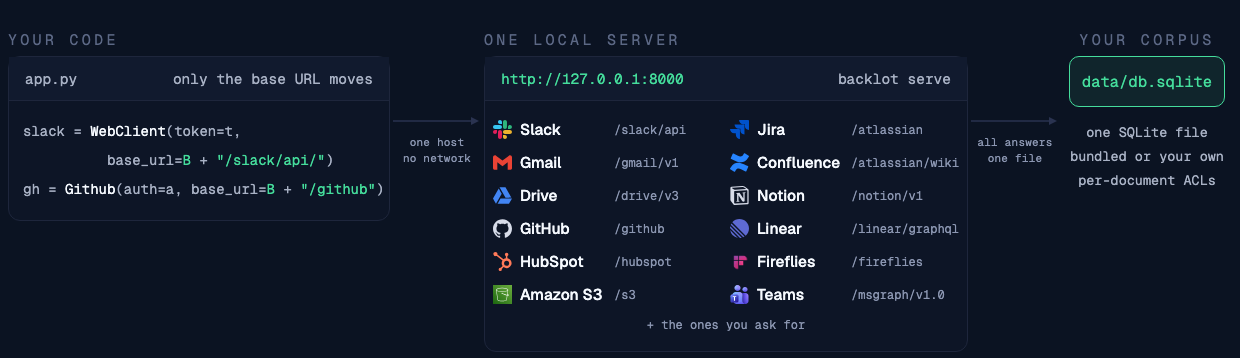
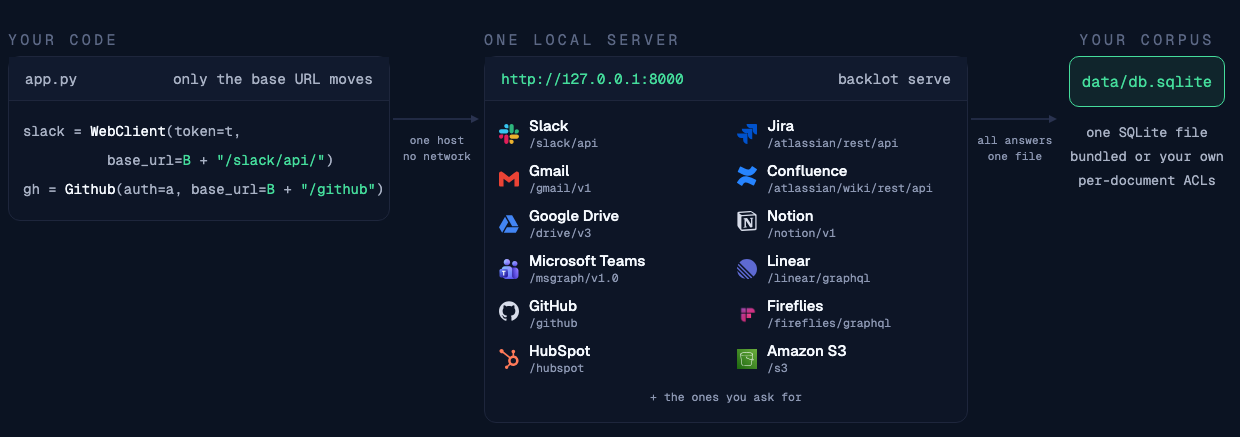
The architecture figure is rendered from a source in the repository, with the table's base paths
scripts/readme-demo-recorder/figures/architecture.html is the figure, one page
for both colour schemes through prefers-color-scheme, and `npm run figures`
screenshots it twice into assets/figures/ with the recorder's own Playwright.
The vendors' marks live beside it under figures/vendors/, with a dark-ground
variant for the three whose brand colour is drawn for one.

The server panel's rows carry the name over the path, so each path can be the
one the README table gives: /atlassian/rest/api, /atlassian/wiki/rest/api and
/fireflies/graphql in full. The longest ends 35px inside the panel's border and
the arrow captions keep their 13px and 9.5px from it. Microsoft Teams follows
Google Drive in the left column, and the panel grows to six rows of two lines.

diff --git a/scripts/readme-demo-recorder/figures/architecture.html b/scripts/readme-demo-recorder/figures/architecture.html
@@ -1,0 +1,91 @@
+<!doctype html>
+<meta charset="utf-8">
+<title>Backlot, in one figure</title>
+<!--
+  The architecture figure the README embeds from assets/figures/: your code on the left, one local
+  server in the middle, your corpus on the right. render.mjs screenshots this page twice, once per
+  colour scheme. The colours follow prefers-color-scheme, and the three marks drawn in a colour meant
+  for a dark ground (Confluence, GitHub, Notion) swap through <picture>, the way the README swaps the
+  figure itself. Geist and Geist Mono come from Google Fonts at render time.
+-->
+<link rel="stylesheet" href="https://fonts.googleapis.com/css2?family=Geist:wght@400;500&family=Geist+Mono&display=block">
+<style>
+:root{
+  --bg:#ffffff; --ink:#1f2328; --text:#59636e; --mute:#59636e; --cap:#6e7781;
+  --edge:#d1d9e0; --panel:#f6f8fa; --head:#eff2f5; --arrow:#8c959f;
+  --green:#1a7f37; --wash:rgba(26,127,55,.08);
+}
+@media (prefers-color-scheme: dark){:root{
+  --bg:#0B1322; --ink:#F6FAFF; --text:#A9B2C5; --mute:#8C97B2; --cap:#5C6885;
+  --edge:#1E263C; --panel:#0D1526; --head:#111A2E; --arrow:#2A3350;
+  --green:#45DD9C; --wash:rgba(69,221,156,.09);
+}}
+*{box-sizing:border-box;margin:0}
+html{background:var(--bg)}
+body{width:1240px;background:var(--bg);color:var(--ink);font-family:Geist,sans-serif;
+     display:grid;grid-template-columns:382px 94px 484px 94px 170px;align-items:start;
+     padding:30px 8px 14px}
+.mono{font-family:"Geist Mono",monospace}
+.cap{font-family:"Geist Mono",monospace;font-size:15px;letter-spacing:.22em;color:var(--cap);height:26px}
+.panel{border:1px solid var(--edge);background:var(--panel);border-radius:12px}
+.head{height:44px;border-bottom:1px solid var(--edge);background:var(--head);display:flex;align-items:center;
+      justify-content:space-between;padding:0 16px;font-family:"Geist Mono",monospace;font-size:14.5px;color:var(--text)}
+.code{padding:16px 14px;font-family:"Geist Mono",monospace;font-size:14px;line-height:29px;color:var(--text);white-space:pre}
+.w{color:var(--ink)}.g{color:var(--green)}
+.rows{padding:10px 6px 12px;display:grid;grid-template-columns:1fr 1fr;column-gap:6px}
+.row{display:flex;align-items:center;gap:10px;padding:6px 8px}
+.row img{width:20px;height:20px;flex:0 0 20px}
+.nm{font-size:15px;font-weight:500;line-height:18px;color:var(--ink);white-space:nowrap}
+.pt{font-family:"Geist Mono",monospace;font-size:11.5px;line-height:15px;color:var(--mute);white-space:nowrap}
+.more{grid-column:1/-1;justify-content:center;padding-top:8px}
+/* As tall as the code panel beside it, so both arrows sit at that panel's mid-height. */
+.arrow{display:flex;flex-direction:column;align-items:center;justify-content:center;
+       height:165px;gap:8px;margin-top:26px;color:var(--arrow)}
+.alab{font-family:"Geist Mono",monospace;font-size:11px;line-height:16px;letter-spacing:.02em;white-space:nowrap;color:var(--mute);text-align:center}
+.chip{border:1px solid var(--green);background:var(--wash);border-radius:10px;padding:14px 12px;
+      font-family:"Geist Mono",monospace;font-size:15.5px;color:var(--green);text-align:center}
+.meta{font-family:"Geist Mono",monospace;font-size:13.5px;color:var(--text);line-height:24px;margin-top:13px;text-align:center}
+</style>
+<div>
+  <div class="cap">YOUR CODE</div>
+  <div class="panel">
+    <div class="head"><span>app.py</span><span>only the base URL moves</span></div>
+    <div class="code">slack = <span class="w">WebClient</span>(token=t,
+          base_url=<span class="g">B</span> + <span class="g">"/slack/api/"</span>)
+gh = <span class="w">Github</span>(auth=a, base_url=<span class="g">B</span> + <span class="g">"/github"</span>)</div>
+  </div>
+</div>
+<div class="arrow">
+  <svg width="92" height="10"><path d="M2 5 H80" stroke="currentColor" stroke-width="1.4"/><path d="M80 1 L88 5 L80 9 Z" fill="currentColor"/></svg>
+  <div class="alab">one host<br>no network</div>
+</div>
+<div>
+  <div class="cap">ONE LOCAL SERVER</div>
+  <div class="panel">
+    <div class="head"><span class="g">http://127.0.0.1:8000</span><span>backlot serve</span></div>
+    <div class="rows">
+      <div class="row"><img src="vendors/slack.svg" alt=""><div><div class="nm">Slack</div><div class="pt">/slack/api</div></div></div>
+      <div class="row"><img src="vendors/jira.svg" alt=""><div><div class="nm">Jira</div><div class="pt">/atlassian/rest/api</div></div></div>
+      <div class="row"><img src="vendors/gmail.svg" alt=""><div><div class="nm">Gmail</div><div class="pt">/gmail/v1</div></div></div>
+      <div class="row"><picture><source media="(prefers-color-scheme: dark)" srcset="vendors/confluence-dark.svg"><img src="vendors/confluence.svg" alt=""></picture><div><div class="nm">Confluence</div><div class="pt">/atlassian/wiki/rest/api</div></div></div>
+      <div class="row"><img src="vendors/drive.svg" alt=""><div><div class="nm">Google Drive</div><div class="pt">/drive/v3</div></div></div>
+      <div class="row"><picture><source media="(prefers-color-scheme: dark)" srcset="vendors/notion-dark.svg"><img src="vendors/notion.svg" alt=""></picture><div><div class="nm">Notion</div><div class="pt">/notion/v1</div></div></div>
+      <div class="row"><img src="vendors/teams.svg" alt=""><div><div class="nm">Microsoft Teams</div><div class="pt">/msgraph/v1.0</div></div></div>
+      <div class="row"><img src="vendors/linear.svg" alt=""><div><div class="nm">Linear</div><div class="pt">/linear/graphql</div></div></div>
+      <div class="row"><picture><source media="(prefers-color-scheme: dark)" srcset="vendors/github-dark.svg"><img src="vendors/github.svg" alt=""></picture><div><div class="nm">GitHub</div><div class="pt">/github</div></div></div>
+      <div class="row"><img src="vendors/fireflies.png" alt=""><div><div class="nm">Fireflies</div><div class="pt">/fireflies/graphql</div></div></div>
+      <div class="row"><img src="vendors/hubspot.svg" alt=""><div><div class="nm">HubSpot</div><div class="pt">/hubspot</div></div></div>
+      <div class="row"><img src="vendors/s3.svg" alt=""><div><div class="nm">Amazon S3</div><div class="pt">/s3</div></div></div>
+      <div class="row more"><span class="pt">+ the ones you ask for</span></div>
+    </div>
+  </div>
+</div>
+<div class="arrow">
+  <svg width="92" height="10"><path d="M2 5 H80" stroke="currentColor" stroke-width="1.4"/><path d="M80 1 L88 5 L80 9 Z" fill="currentColor"/></svg>
+  <div class="alab">all answers<br>one file</div>
+</div>
+<div style="display:flex;flex-direction:column;align-items:center">
+  <div class="cap">YOUR CORPUS</div>
+  <div class="chip">data/db.sqlite</div>
+  <div class="meta">one SQLite file<br>bundled or your own<br>per-document ACLs</div>
+</div>

diff --git a/scripts/readme-demo-recorder/README.md b/scripts/readme-demo-recorder/README.md
@@ -1,7 +1,8 @@
 # README demo recorder
 
-Renders the animation the README embeds at [`assets/demo.gif`](../../assets/demo.gif). Build-only —
-nothing here ships in the wheel. [← README](../../README.md)
+Renders the animation the README embeds at [`assets/demo.gif`](../../assets/demo.gif), and the
+architecture figure under [`assets/figures/`](../../assets/figures/). Build-only — nothing here ships
+in the wheel. [← README](../../README.md)
 
 React components draw one frame at a time from a frame number; [esbuild](https://esbuild.github.io)
 bundles them, [Playwright](https://playwright.dev) screenshots each frame in headless Chromium, and
@@ -15,8 +16,9 @@ npm install && npx playwright install chromium
 ./build.sh
 ```
 
-`build.sh` captures to `out/frames/` and writes `../../assets/demo.gif`. `npx tsc --noEmit`
-typechecks.
+`build.sh` captures to `out/frames/` and writes `../../assets/demo.gif`. `npm run figures` renders
+`figures/architecture.html` twice, dark and light, to `../../assets/figures/`; it takes Geist from
+Google Fonts, so it needs the network. `npx tsc --noEmit` typechecks.
 
 | Path | What it is |
 |---|---|
@@ -25,6 +27,9 @@ typechecks.
 | `src/parts.tsx` | The pieces it is built from |
 | `src/runtime.tsx` | `interpolate`, `Easing`, `AbsoluteFill` — the whole animation runtime |
 | `capture.mjs` | Bundle, drive the browser, write the frames |
+| `figures/architecture.html` | The architecture figure, one page for both colour schemes |
+| `figures/render.mjs` | Screenshot it once per scheme |
+| `figures/vendors/` | The marks drawn in its server panel |
 
 The comments in those files carry the reasoning: why entrances use a clamped ease rather than a
 spring, why transitions are staggered per row, why the GIF is encoded from one global palette. Read
